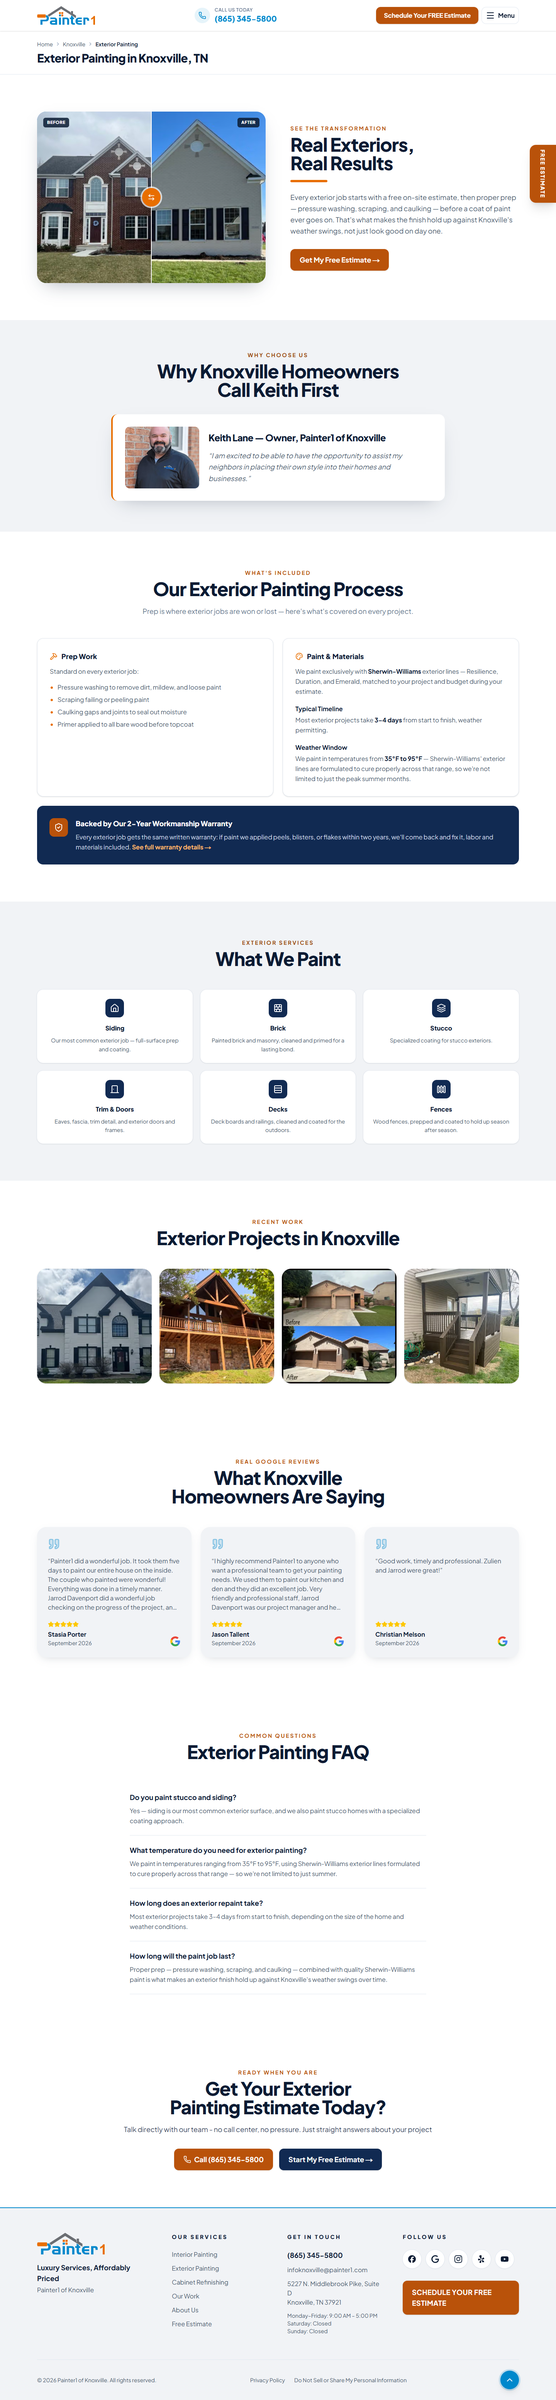
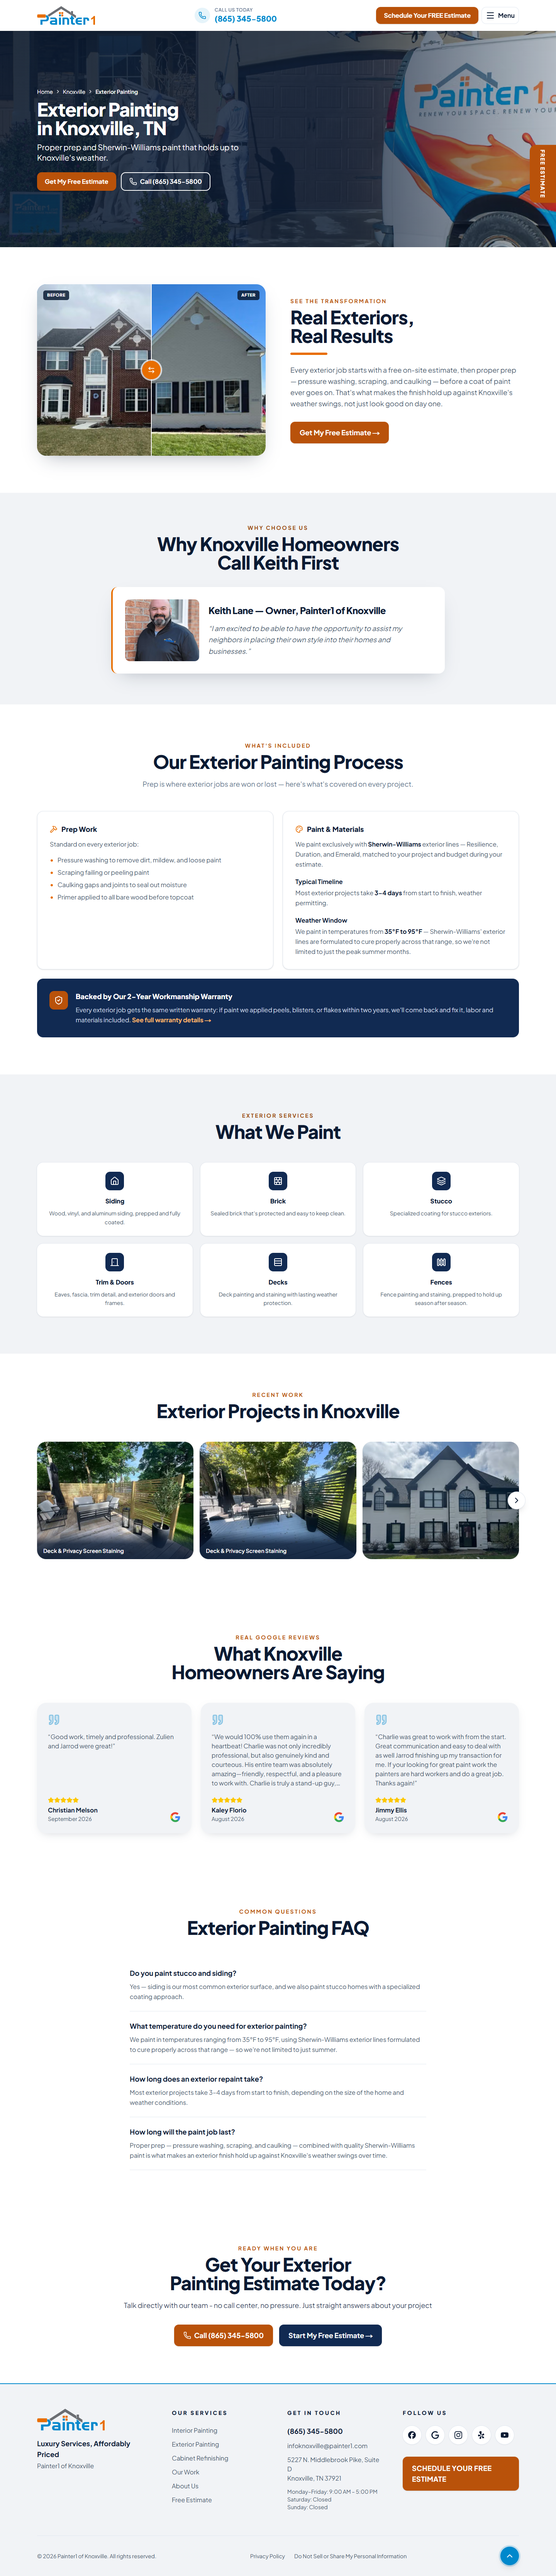
Service hero and slider plan, updated service page screenshots

diff --git a/docs/service-hero-slider-plan.md b/docs/service-hero-slider-plan.md
@@ -1,0 +1,85 @@
+# Service pages: hero with overlay + Recent Work slider — plan
+
+Branch `service-hero-slider` (from `main` after PR #7).
+
+## Step 0 — hero image candidates
+
+Requirement: a photo of crew/painters at work, at least 1600px wide, Knoxville's own (no franchise stock, no Inland Northwest).
+
+**Result: no image qualifies.**
+
+| Image | Size | Where | Shows | Verdict |
+|---|---|---|---|---|
+| Painter1-Our-Affilation-…-Sherwin-Williams-Updated-Logo.png | 3840×1200 | 17 pages (shared block) | Sherwin-Williams logo banner | Not a photo |
+| Cabinet-Painting-Preparation-from-Painter1-scaled.jpg | 2560×1920 | Inland Northwest cabinet page only | Kitchen masked in plastic for spraying, no people | Other location, no crew |
+| 8352_print_no_phone.webp | 1920×1282 | Inland Northwest cabinet page only | Two Painter1 painters prepping a bedroom wall | Franchise marketing shoot, not Knoxville |
+| 8457_print_no_phone.webp | 1920×1282 | Inland Northwest cabinet page only | Two painters at work, homeowners watching | Franchise marketing shoot, not Knoxville |
+| 7515_print_no_phone.webp | 1920×1282 | Inland Northwest cabinet page only | Crew member placing a Painter1 yard sign | Franchise marketing shoot |
+| 8942_print_no_phone.webp | 1920×1282 | Inland Northwest cabinet page only | Person beside a branded Painter1 car | Franchise marketing shoot |
+
+Knoxville's images already in Sanity:
+
+| Field | Size | File | Verdict |
+|---|---|---|---|
+| `heroImage` (homepage hero) | 1920×1680 | Painter1-Our-Painting-Services-Residential-Painting-Cover.jpg | **Franchise stock by name**, and it is the last fallback in the new hero chain |
+| `ownerActionPhoto` | 1061×756 | Painter1-of-Knoxville-Keith-Lane-Homeowner-Consult.png | Real Knoxville, but a consultation (not crew at work) and under 1600px |
+| services / gallery | ≤1200px wide | before/after and project photos | All under 1600px |
+
+The best real candidates (8352, 8457) are franchise brand photos. If Painter1 corporate allows every location to use them, they would work well; otherwise Keith needs to supply crew photos at 1920×1080 or larger.
+
+## Change 1 — hero with text overlay
+
+**New component `components/service/ServiceHero.tsx`** (server component, replaces `ServicePageHeader.tsx`, which is deleted; the `Crumb` type moves with it)
+- Fixed-height box: `h-[420px] md:h-[480px] lg:h-[560px]`, so layout shift stays 0.
+- Image: `SanityImage` with `fill`, `object-cover`, `preload` (eager + `fetchpriority="high"` + `<link rel=preload>` with the srcset), `sizes="100vw"`; `object-position` from the hotspot/crop (the `hotspotPosition` helper moves from `WarrantyBand.tsx` to `lib/image.ts` and both use it).
+- Source, first match wins: `location.services[locationKey].heroImage` → `service.heroImage` → `location.heroImage`. With none of them set, the hero renders on solid navy (no broken image).
+- Overlay: dark ink (#0b1b33) gradient. Mobile/tablet: bottom-up (text at the bottom). Desktop: left-to-right (text on the left half). **At least 75% ink behind every line of text**, which is 7.7:1 for white text even over a pure-white pixel (AA needs 60%), fading to about 20% where there is no text.
+- Content: breadcrumb (`nav aria-label="Breadcrumb"`, Home > {City} > {Service}), H1 "{Service title} in {City}, {State}", subtitle (`heroSubtitle`, tokens filled), buttons "Get My Free Estimate" (existing orange `CtaButton`, `getCta(location).href`) and "Call {phone}" (existing white `outline` variant, `tel:`; hidden when the location has no phone).
+- The hero H1 is always the page's single H1. `TransformationBlock` loses `headingLevel` and the service page stops passing `priority`, so its slider images go back to lazy loading. The homepage is unaffected (it never passed either).
+
+**Removed:** `showPageHeader` (schema field, type, query, page logic, seed value). The seed also unsets the stored `showPageHeader: true` on both service docs so no orphan value is left; this shows in the dry run.
+
+**Kept:** BreadcrumbList JSON-LD (built from the same crumbs).
+
+## Change 2 — Recent Work as a manual slider
+
+**New `components/GallerySlider.tsx`** (`'use client'`, reusable). It only handles the track, arrows and announcements; the page renders the slides (server-side `SanityImage`), so no image code ships to the browser.
+- Track: `flex overflow-x-auto snap-x snap-mandatory`, scrollbar hidden; slides `basis-full md:basis-1/2 lg:basis-1/3` (1 / 2 / 3 per view), `snap-start`, `aspect-4/3`, `object-cover`, all `loading="lazy"`.
+- Arrows: round buttons on the left and right edges, vertically centred, `aria-label` "Previous photos" / "Next photos", visible focus ring. Each is hidden when there is nothing more to scroll that way; both are hidden when everything fits. They stay on mobile, alongside swipe. One click scrolls one view's width.
+- Motion: smooth scrolling only under `prefers-reduced-motion: no-preference` (CSS `motion-safe:scroll-smooth`, and `behavior: 'auto'` in JS when reduce is set).
+- Accessibility: `<section role="region" aria-roledescription="carousel" aria-label="{shortName} projects in {City}">`, slides as a list (`aria-roledescription="slide"`, "N of M" labels), and a visually hidden `aria-live="polite"` region "Showing photos X–Y of N" updated on scroll end.
+- Title overlay: bottom band with an ink gradient (at least 75% under the text), white text. Text = `title`, else "{projectType}, {area}" (whichever parts exist), else no band.
+
+**Selection (page):** photos tagged with the service, in stored order, shown when there are at least 3, up to 12. The whole-rows-of-4 logic and `GalleryGrid`'s `columns`/`captions` props used only by the service page are removed. The homepage "Our Work" grid is unchanged.
+
+**Effect on Knoxville:** Exterior shows all 9 tagged photos (deck before/after adjacent at slides 1–2). **Interior now shows its 3 tagged photos** (Fireplace accent, yellow room, room before/after). Under the previous 4-photo rule that section was hidden.
+
+## Schema / data
+
+| Where | Field | Type | Notes |
+|---|---|---|---|
+| `service` | `heroSubtitle` | string | Tokens {city} {state} {owner} |
+| `service` | `heroImage` | image, hotspot, required alt | "Crew at work for this service, landscape, at least 1920x1080" |
+| `service` | `showPageHeader` | — | Removed |
+| `serviceDetail` (location.services.*) | `heroImage` | image, hotspot, required alt | Same description |
+| `location.galleryImages[]` | `title` | string, max 60 | "Shown over the bottom of the photo, e.g. Exterior repaint in Farragut" |
+
+Queries/types updated to match (`heroSubtitle`, `heroImage{…}` on service and service detail, `title` on gallery images).
+
+**Seed:** `heroSubtitle` for both services (your wording), unset `showPageHeader`. No hero images. Dry run first, then apply after your OK.
+
+## Files
+
+- New: `components/service/ServiceHero.tsx`, `components/GallerySlider.tsx`, `lib/image.ts`, this plan
+- Changed: `app/[location]/[service]/page.tsx`, `components/TransformationBlock.tsx`, `components/GalleryGrid.tsx` (drop service-only props), `components/home/WarrantyBand.tsx` (shared hotspot helper), `sanity/schemas/service.ts`, `sanity/schemas/objects/serviceDetail.ts`, `sanity/schemas/location.ts`, `sanity/lib/types.ts`, `sanity/lib/queries.ts`, `scripts/seed-services.ts`
+- Deleted: `components/service/ServicePageHeader.tsx`
+
+## Checks after build
+
+Typecheck, lint, build; axe AA on both pages; no horizontal scroll at 360/768/1024/1440; layout shift 0; Lighthouse mobile on both (Performance 90+); keyboard pass through the slider arrows; screenshots at 1440 and 360 to `docs/screenshots/`. Commit as sbharvadiya1, push, PR compare link.
+
+## Decisions needed
+
+- **D1. Hero image for Knoxville now.** Nothing qualifies, so the chain ends at Knoxville's homepage `heroImage`, a franchise stock photo. (a) Accept that until Keith sends photos. (b) Drop `location.heroImage` from the chain, so pages without a service hero get a navy text-only hero. (c) Use 8352/8457 if corporate confirms they can be used by every location (you set them in Studio; the seed won't).
+- **D2. Interior Recent Work** will appear with 3 photos under the new ≥3 rule. OK?
+- **D3. `showPageHeader`:** remove the field and unset the stored value (recommended), or just hide it in Studio.
